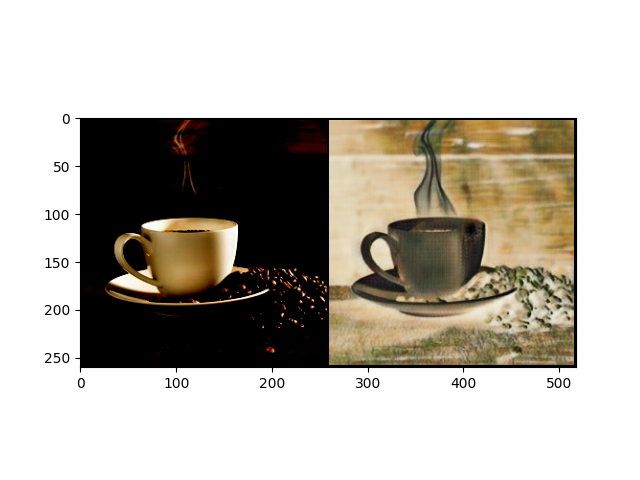
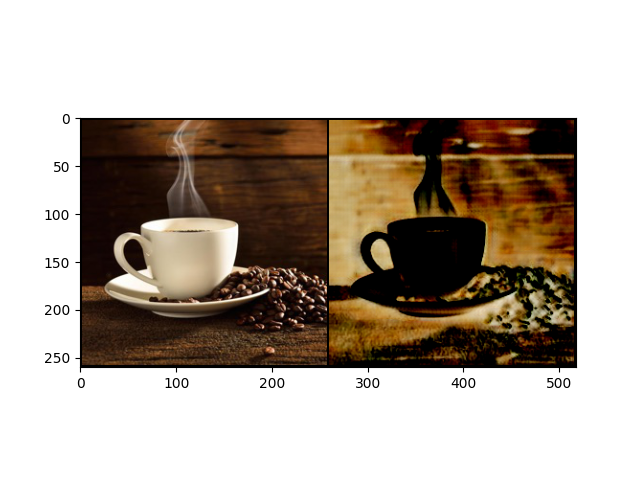
cyclegan 299

diff --git a/test.py b/test.py
@@ -207,7 +207,7 @@ class CustomDataSet(Dataset):
         img_loc = os.path.join(self.main_dir, self.total_imgs[idx])
         image = Image.open(img_loc).convert("RGB")
         tensor_image = self.transform(image)
-        return (tensor_image - 0.5) * 2
+        return tensor_image
 
 means = np.array((0.5, 0.5, 0.5))
 stds = np.array((0.5, 0.5, 0.5))
@@ -226,9 +226,10 @@ with torch.no_grad():
         real_b = real_b.to(device)
         fake_a = gen_BA(real_b)
         #fake_a = gen_AB(real_b)
+        real_b = (real_b + 1) / 2
         catenation = torch.cat([real_b, fake_a])
-        image_tensor = (catenation + 1) / 2
-        image_shifted = image_tensor
+        #image_tensor = (catenation + 1) / 2
+        image_shifted = catenation
         image_unflat = image_shifted.detach().cpu().view(-1, *(dim_A, target_shape, target_shape))
         image_grid = make_grid(image_unflat[:25], nrow=5)
         plt.imshow(image_grid.permute(1, 2, 0).squeeze())
